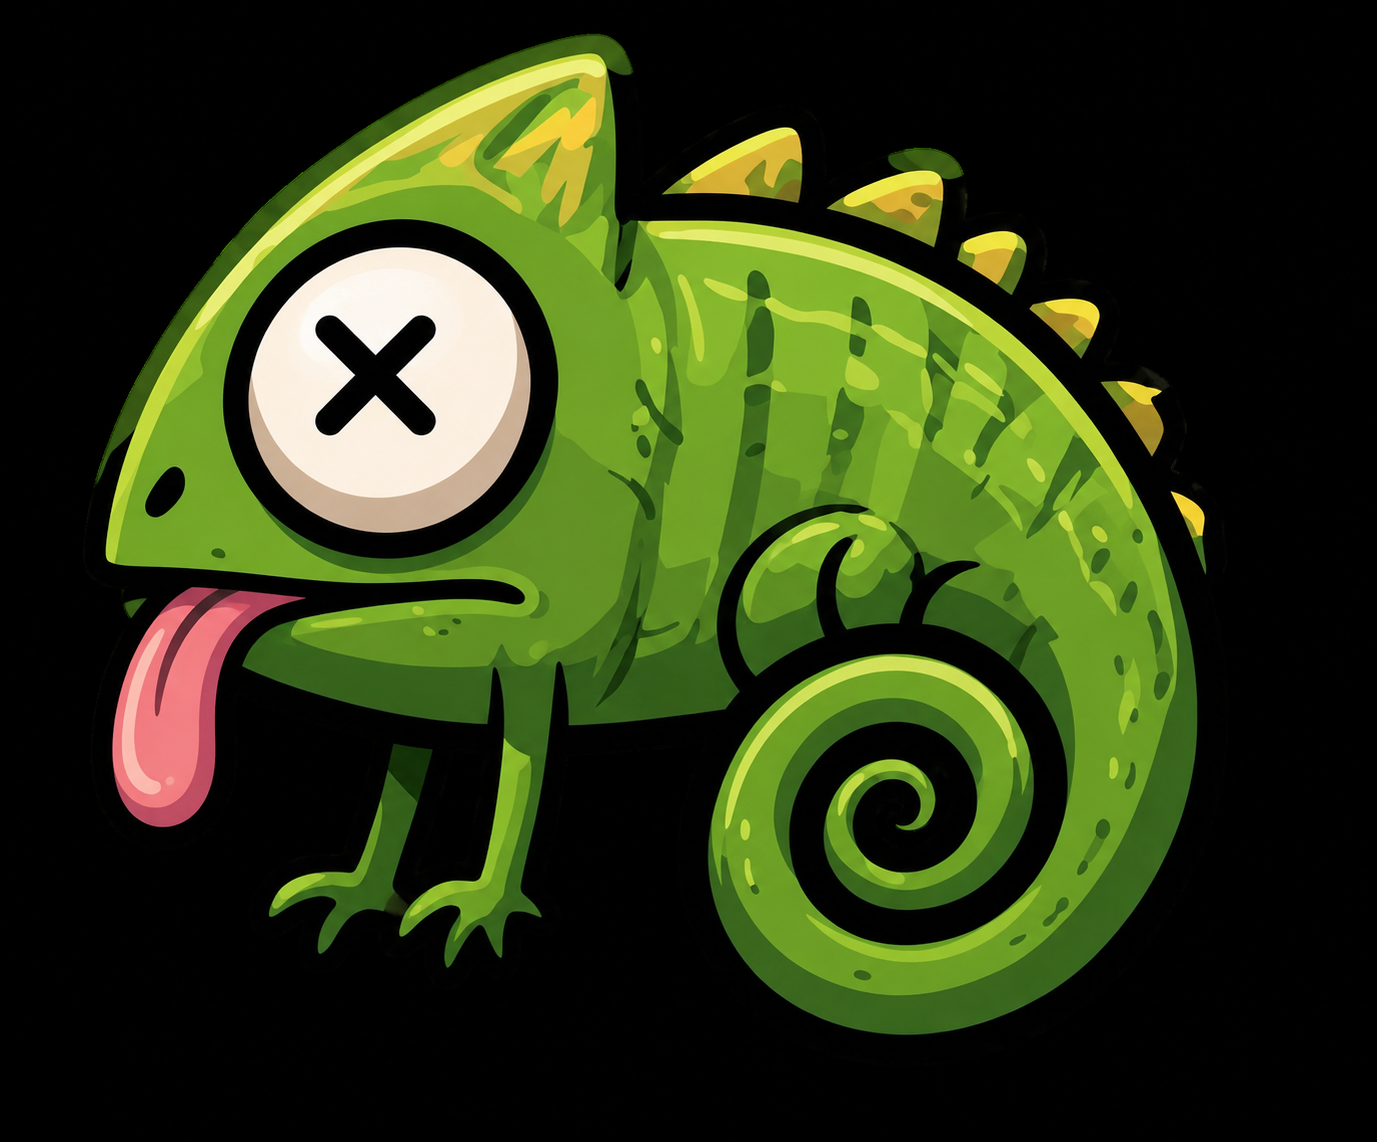
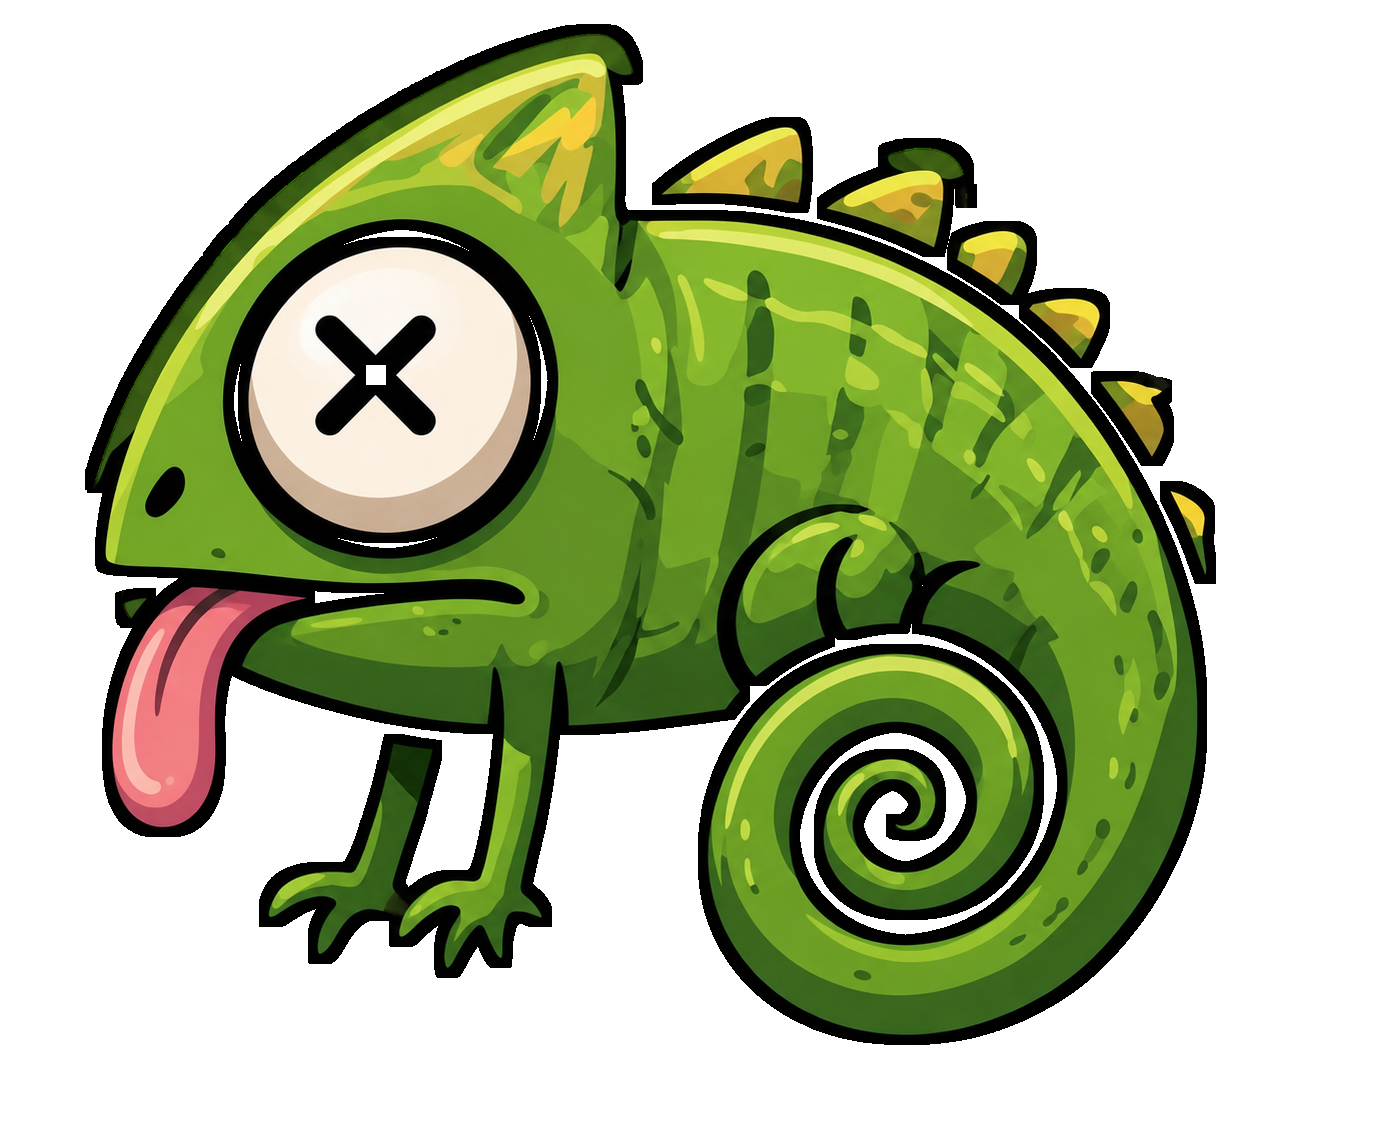
Fix chameleon loss verdict

diff --git a/public/app.js b/public/app.js
@@ -760,6 +760,32 @@ function verdictSplashForMe(result) {
   };
 }
 
+function settledVerdictForMe(result) {
+  const splash = verdictSplashForMe(result);
+
+  if (result.caught) {
+    if (state.me.role === "chameleon") {
+      return { headline: "LOSS", image: VERDICT_ASSET.chameleonCaught, alt: "Caught Chameleon", tone: "fail" };
+    }
+
+    if (state.me.role === "catcher") {
+      return { headline: "SUCCESS", image: VERDICT_ASSET.catcherHappy, alt: "Happy Catcher", tone: "success" };
+    }
+
+    return { headline: "CATCHER WON", image: VERDICT_ASSET.catcherHappy, alt: "Happy Catcher", tone: "success" };
+  }
+
+  if (state.me.role === "catcher") {
+    return { headline: "LOSS", image: VERDICT_ASSET.catcherLost, alt: "Sad Catcher", tone: "fail" };
+  }
+
+  if (state.me.role === "chameleon") {
+    return { headline: "WIN", image: VERDICT_ASSET.chameleonHappy, alt: "Winning Chameleon", tone: "success" };
+  }
+
+  return { headline: "CHAMELEON WON", image: splash.image, alt: splash.alt, tone: "fail" };
+}
+
 function renderVerdictSplash(result) {
   if (!result) return "";
   const splash = verdictSplashForMe(result);
@@ -797,12 +823,13 @@ function renderVerdictSplash(result) {
 function renderVerdict() {
   const result = state.result;
   const nextText = state.matchIndex >= state.totalMatches ? "Final leaderboard" : "Next match";
+  const settled = result ? settledVerdictForMe(result) : null;
   return `
     <section class="verdict-stage dark-panel ${result?.caught ? "is-success" : "is-chameleon"}">
       ${renderVerdictSplash(result)}
       <div id="verdictFx" class="verdict-fx" aria-hidden="true"></div>
       <div class="verdict-copy">
-        <img id="verdictCharacter" class="verdict-character is-hidden" src="${roleAsset(result?.caught ? "catcher" : "chameleon")}" alt="${result?.caught ? "Catcher" : "Chameleon"} winner character" />
+        <img id="verdictCharacter" class="verdict-character is-hidden" src="${settled?.image || roleAsset(result?.caught ? "catcher" : "chameleon")}" alt="${escapeHtml(settled?.alt || "Verdict character")}" />
         <p class="eyebrow">${escapeHtml(result?.verdictLine || "")}</p>
         <h1 id="verdictPulse">5</h1>
         <strong id="verdictRoleLine" class="is-hidden">${escapeHtml(result ? verdictLineForMe(result) : "")}</strong>
@@ -935,6 +962,7 @@ function updateVerdictVisual() {
   const elapsed = Date.now() - state.result.resolvedAt;
   const revealDelay = state.result.revealDelayMs || 5000;
   const remaining = Math.max(1, Math.ceil((revealDelay - elapsed) / 1000));
+  const settled = settledVerdictForMe(state.result);
 
   if (elapsed < revealDelay) {
     pulse.textContent = String(remaining);
@@ -946,9 +974,11 @@ function updateVerdictVisual() {
     character.classList.add("is-hidden");
   } else {
     splash?.classList.add("is-hidden");
-    pulse.textContent = state.result.headline;
+    pulse.textContent = settled.headline;
     pulse.classList.add("is-final");
     stage.classList.add("is-revealed");
+    if (!character.src.endsWith(settled.image)) character.src = settled.image;
+    character.alt = settled.alt;
     roleLine.textContent = verdictLineForMe(state.result);
     roleLine.classList.remove("is-hidden");
     tagline.classList.remove("is-hidden");
@@ -962,7 +992,7 @@ function updateVerdictVisual() {
   const tone = elapsed < revealDelay ? `splash:${state.result.resolvedAt}` : "verdict-settled";
   if (lastVerdictTone !== tone) {
     lastVerdictTone = tone;
-    if (elapsed < revealDelay) sfx.play(state.result.caught ? "success" : "fail");
+    if (elapsed < revealDelay) sfx.play(settled.tone);
   }
 }
 